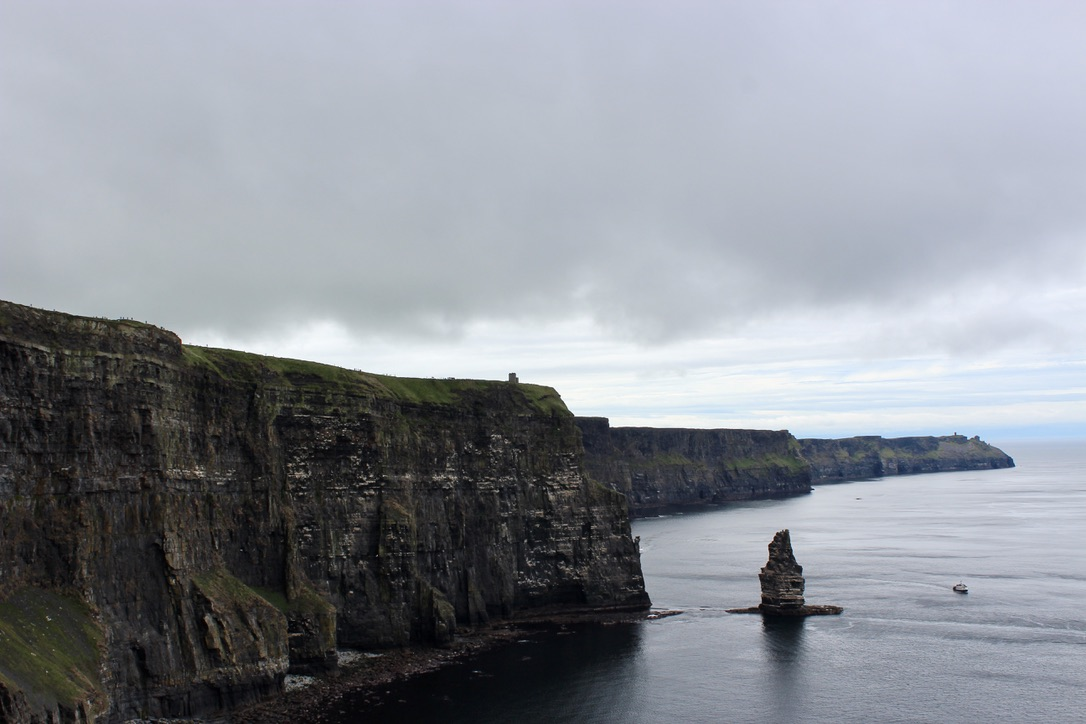
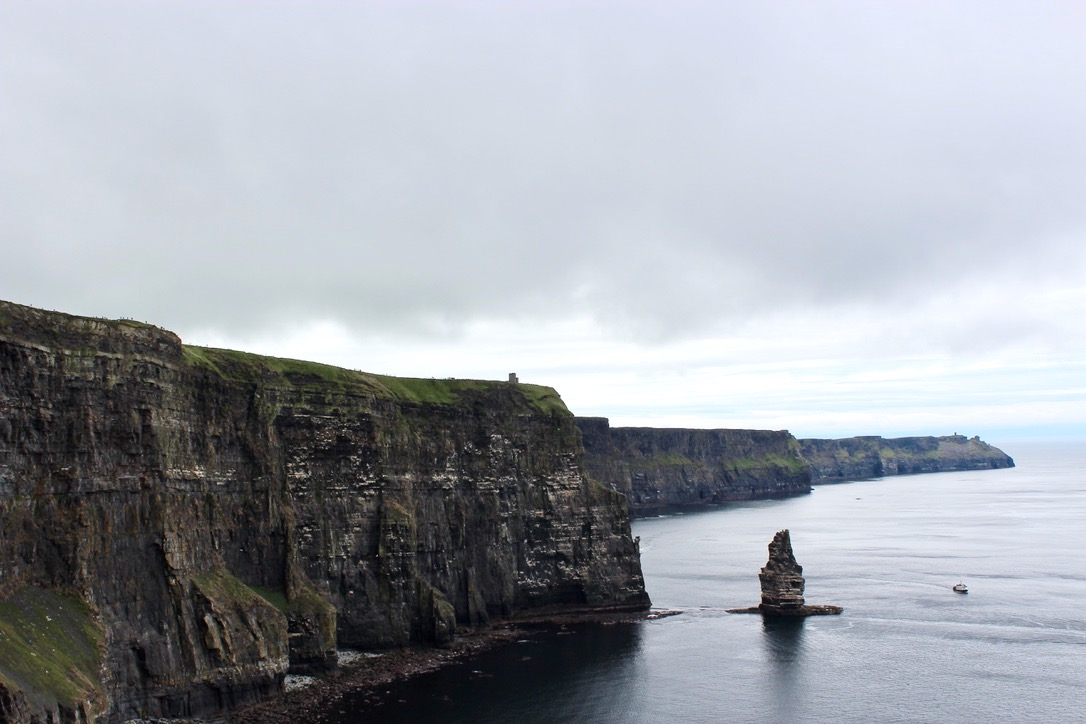
Added edited carousel images

diff --git a/index.html b/index.html
@@ -56,7 +56,7 @@
       <div id="headerCarousel" class="carousel slide" data-ride="carousel">
         <div class="carousel-inner">
           <div class="carousel-item active">
-              <img src="static/img/landing/jungfraujoch.jpg" class="d-block w-100 vh-100" alt="Mountains">
+              <img src="static/img/landing/jungfraujoch.jpeg" class="d-block w-100 vh-100" alt="Mountains">
           </div>
           <div class="carousel-item">
               <img src="static/img/landing/spirit_island.jpeg" class="d-block w-100 vh-100" alt="Mountains">

diff --git a/static/css/me.css b/static/css/me.css
@@ -206,7 +206,7 @@ button.bg-dark:focus {
 
 .carousel img {
   opacity: 1.0;
-  filter: brightness(75%);
+  filter: brightness(85%);
 }
 
 .timeline-outline::before {
